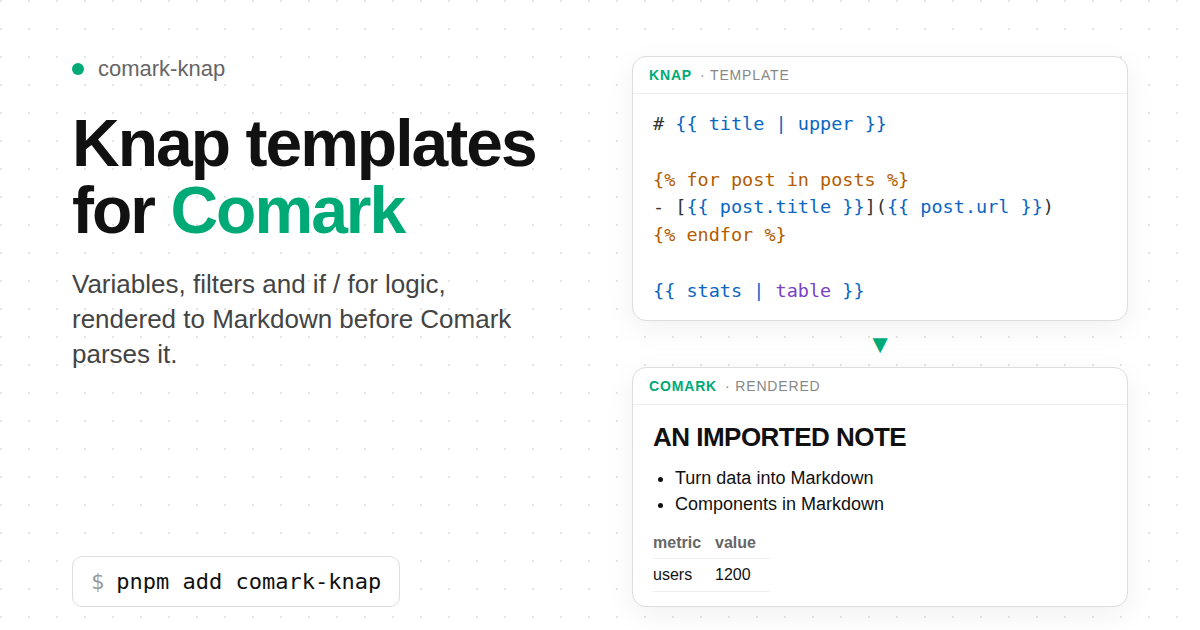
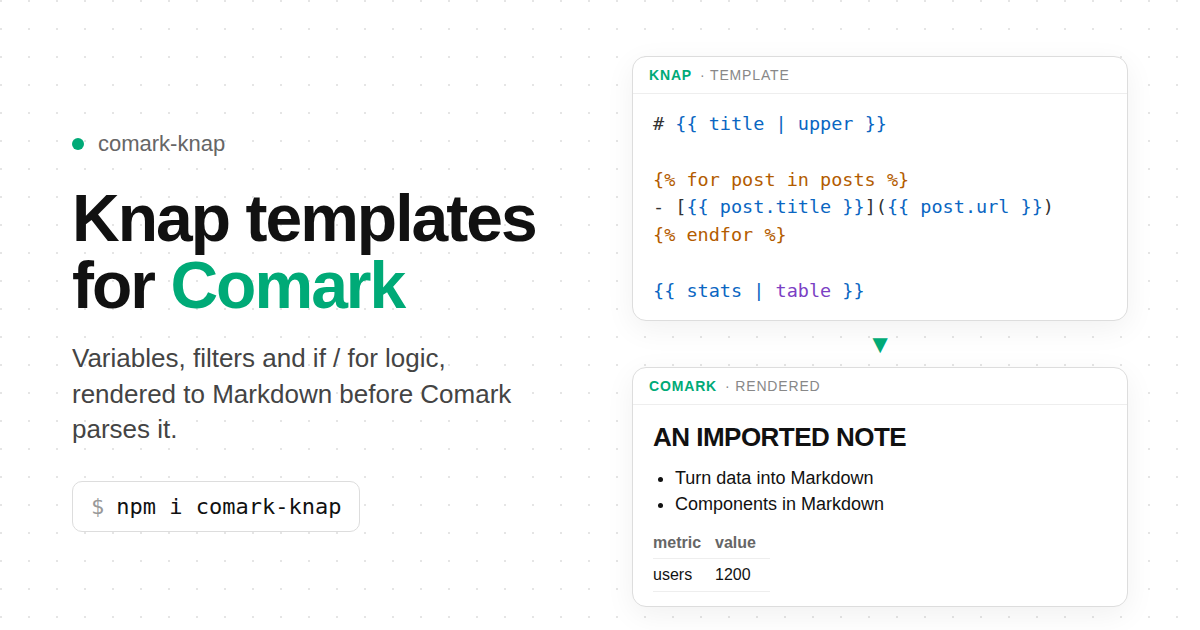
chore(playground): OG image uses npm and keeps the install chip near the text
Claude-Session: https://claude.ai/code/session_01JK8pZuKsUStTRDDLjMrPMu

diff --git a/playground/og/index.html b/playground/og/index.html
@@ -23,14 +23,14 @@
     gap: 40px;
     padding: 56px 72px 48px;
   }
-  .left { display: flex; flex-direction: column; justify-content: space-between; }
+  .left { display: flex; flex-direction: column; justify-content: center; }
   .brand { display: flex; align-items: center; gap: 14px; font-size: 22px; color: #666; }
   .brand .dot { width: 12px; height: 12px; border-radius: 50%; background: #0a7; }
   h1 { font-size: 66px; line-height: 1.02; letter-spacing: -0.03em; font-weight: 700; margin-top: 28px; }
   h1 span { color: #0a7; }
   p.lede { margin-top: 22px; font-size: 26px; line-height: 1.35; color: #444; max-width: 480px; }
   .install {
-    display: inline-flex; align-items: center; gap: 12px; align-self: flex-start;
+    display: inline-flex; align-items: center; gap: 12px; align-self: flex-start; margin-top: 34px;
     font-family: 'DejaVu Sans Mono', 'Liberation Mono', monospace; font-size: 22px;
     padding: 12px 18px; border: 1.5px solid #ddd; border-radius: 10px; background: #fff;
   }
@@ -59,8 +59,8 @@
       <div class="brand"><span class="dot"></span> comark-knap</div>
       <h1>Knap templates<br />for <span>Comark</span></h1>
       <p class="lede">Variables, filters and if / for logic, rendered to Markdown before Comark parses it.</p>
+      <div class="install"><span class="p">$</span> npm i comark-knap</div>
     </div>
-    <div class="install"><span class="p">$</span> pnpm add comark-knap</div>
   </div>
   <div class="right">
     <div class="card">
